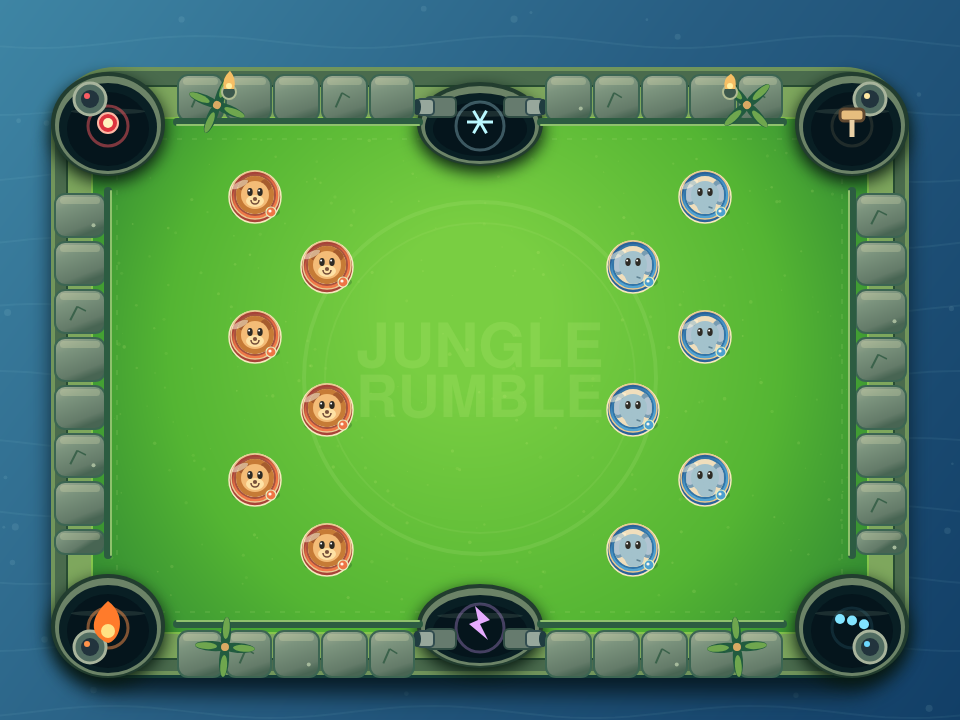
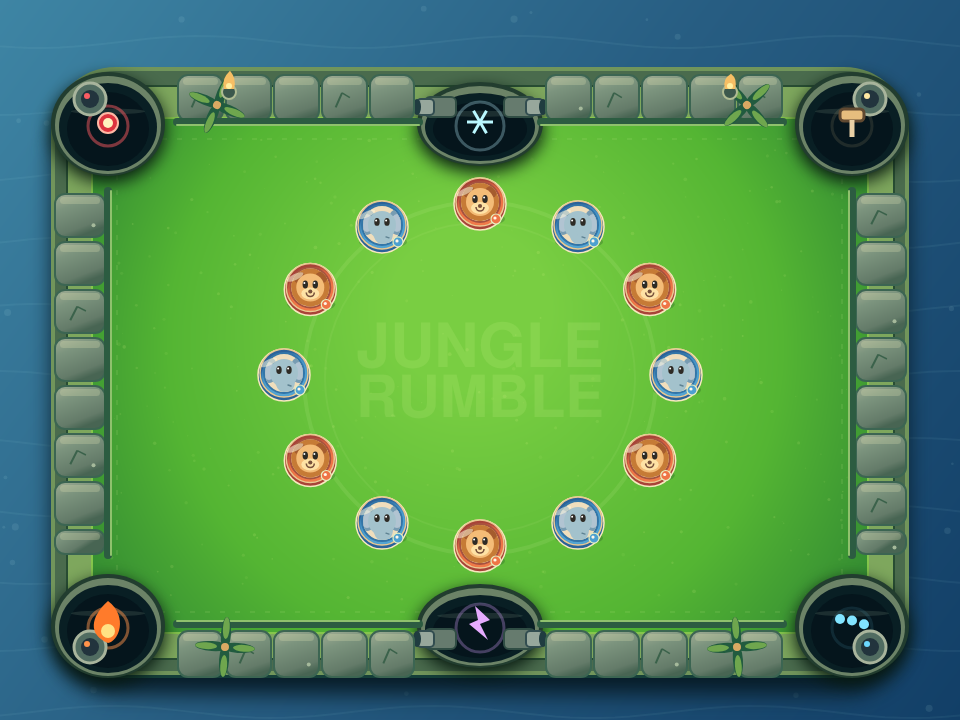
push v2.1

diff --git a/public/app.js b/public/app.js
@@ -4,6 +4,8 @@
   const canvas = $('gameCanvas');
   const ctx = canvas.getContext('2d');
   const W = 960, H = 720;
+  const DEFAULT_MAX_POWER = 1020, FULL_POWER_DRAG = 130;
+  const shotStrength = distance => Math.min(1, Math.max(0, distance / FULL_POWER_DRAG));
   const F = { l:108, r:852, t:122, b:624 };
   const ICONS = { lion:'🦁', elephant:'🐘', monkey:'🐒', hippo:'🦛' };
   // Four corner pockets plus centre pockets on the two long rails.
@@ -21,10 +23,12 @@
   const positions=new Map(), effects=[], seenEvents=new Set();
   let toastTimeout=null, sceneMode='preview';
   const demo = {game:{pieces:[],phase:'playing',turn:0,remaining:[6,6],shots:0,events:[]},players:[{name:'Sunny',species:'lion'},{name:'Moon',species:'hippo'}],phase:'playing'};
-  const Y=[195,265,335,408,478,548];
-  for(let i=0;i<6;i++){
-    demo.game.pieces.push({id:'p0-'+i,owner:0,x:i%2?327:255,y:Y[i],vx:0,vy:0,alive:true});
-    demo.game.pieces.push({id:'p1-'+i,owner:1,x:i%2?633:705,y:Y[i],vx:0,vy:0,alive:true});
+  // The lobby preview uses the same circular layout as all game modes.
+  for(let i=0;i<12;i++){
+    const angle=i*Math.PI/6-Math.PI/2;
+    const owner=i%2;
+    demo.game.pieces.push({id:`p${owner}-${Math.floor(i/2)}`,owner,
+      x:480+Math.cos(angle)*196,y:373+Math.sin(angle)*171,vx:0,vy:0,alive:true});
   }
   let roomState=demo;
 
@@ -127,7 +131,7 @@
     $('turnLabel').textContent=g.phase==='finished'?'SPIEL BEENDET':data.phase==='waiting'?'WARTE AUF DEINEN FREUND':ourTurn?'DU BIST AM ZUG':data.bot?'COMPUTER IST DRAN':'GEGNER IST AM ZUG';
     $('turnIndicator').style.color=g.turn===0?'#f3a864':'#7acbee';
     $('rematch').classList.toggle('hidden',g.phase!=='finished');
-    $('instruction').textContent=data.phase==='waiting'?'Sobald dein Freund beigetreten ist, kann es losgehen.':g.phase==='finished'?'Lust auf eine Revanche? Die Startaufstellung aendert sich bei jeder Runde.':g.phase==='moving'?'Warte, bis alle Tierkugeln ausgerollt sind.':ourTurn?'Wähle eine eigene Kugel, ziehe den Queue zurück und lasse los. Über die Zielhilfe erkennst du den Trefferpunkt.':data.bot?'Der Computer berechnet seinen nächsten Stoß …':'Schau zu, wie dein Gegner seinen Stoß vorbereitet.';
+    $('instruction').textContent=data.phase==='waiting'?'Sobald dein Freund beigetreten ist, kann es losgehen.':g.phase==='finished'?'Lust auf eine Revanche? Auch die nächste Runde startet im Kreis.':g.phase==='moving'?'Warte, bis alle Tierkugeln ausgerollt sind.':ourTurn?'Wähle eine eigene Kugel, ziehe den Queue zurück und lasse los. Über die Zielhilfe erkennst du den Trefferpunkt.':data.bot?'Der Computer berechnet seinen nächsten Stoß …':'Schau zu, wie dein Gegner seinen Stoß vorbereitet.';
   }
   function updateOverlay() {
     const overlay=$('arenaOverlay');
@@ -532,7 +536,7 @@
     if(!drag||!d)return;
     const dx=drag.startX-drag.x,dy=drag.startY-drag.y,mag=Math.hypot(dx,dy);
     if(mag<3)return;
-    const power=Math.min(130,mag),nx=dx/mag,ny=dy/mag;
+    const strength=shotStrength(mag),power=FULL_POWER_DRAG*strength,nx=dx/mag,ny=dy/mag;
     ctx.save();ctx.translate(d.x,d.y);
     // Preview the first ball-to-ball impact instead of a generic arrow.
     const game=roomState.game;
@@ -569,8 +573,8 @@
     rr(meterX,meterY,166,15,7,'#0b201cdd','#f1daa077',1);
     const gradient=ctx.createLinearGradient(meterX,0,meterX+163,0);
     gradient.addColorStop(0,'#8fe778');gradient.addColorStop(.62,'#f2d366');gradient.addColorStop(1,'#e85c37');
-    rr(meterX+3,meterY+3,Math.max(1,160*power/130),9,4,gradient);
-    text(`STOßKRAFT ${Math.round(power/130*100)}%`,meterX+83,meterY-7,'bold 11px Trebuchet MS','#f6f2cf');
+    rr(meterX+3,meterY+3,Math.max(1,160*strength),9,4,gradient);
+    text(`STOßKRAFT ${Math.round(strength*100)}%`,meterX+83,meterY-7,'bold 11px Trebuchet MS','#f6f2cf');
   }
   let lastDrawTime=0;
   function draw(t){
@@ -616,7 +620,10 @@
     const dx=sel.startX-pointNow.x,dy=sel.startY-pointNow.y;
     const mag=Math.hypot(dx,dy);
     if(mag<8){showToast('Ziehe das Tier nach hinten, dann loslassen!');return;}
-    const power=Math.min(1050,mag*7.9),vx=dx/mag*power,vy=dy/mag*power;
+    // The authoritative server exposes its power ceiling with the game state.
+    // 100% on the UI maps to that precise value, even if it changes later.
+    const maxPower=current.game.maxPower??DEFAULT_MAX_POWER;
+    const power=maxPower*shotStrength(mag),vx=dx/mag*power,vy=dy/mag*power;
     try {await send('POST',`/api/rooms/${session.code}/shoot`,{token:session.token,pieceId:sel.id,vx,vy});}
     catch(e){showToast(e.message);}
   });

diff --git a/test/ui.test.js b/test/ui.test.js
@@ -1,0 +1,75 @@
+'use strict';
+const {test}=require('node:test');
+const assert=require('node:assert/strict');
+const fs=require('node:fs');
+const vm=require('node:vm');
+const path=require('node:path');
+const {initGame,publicGame,MAX_POWER}=require('../game');
+
+function mountUI(){
+  class MockElement {
+    constructor(id){
+      this.id=id;this.handlers={};this.style={};this.dataset={};this.value=id==='playerName'?'Test':'normal';
+      this.textContent='';this.classes=new Set();
+      this.classList={add:k=>this.classes.add(k),remove:k=>this.classes.delete(k),toggle:(k,on)=>{
+        const enabled=on===undefined?!this.classes.has(k):on;
+        if(enabled)this.classes.add(k);else this.classes.delete(k);
+        return enabled;
+      }};
+    }
+    addEventListener(type,fn){this.handlers[type]=fn;}
+    setAttribute(){}
+    setPointerCapture(){}
+    getBoundingClientRect(){return {left:0,top:0,width:960,height:720};}
+  }
+  const elements=new Map();
+  const element=id=>{
+    if(!elements.has(id))elements.set(id,new MockElement(id));
+    return elements.get(id);
+  };
+  const requests=[];
+  const fakeFetch=async(url,opts={})=>{
+    const payload=opts.body?JSON.parse(opts.body):null;
+    requests.push({url,method:opts.method,body:payload});
+    if(url==='/api/rooms'){
+      return {ok:true,json:async()=>({
+        code:'ABC234',token:'tkn',seat:0,local:true,bot:false,seq:0,phase:'playing',
+        players:[{name:'A',species:'lion'},{name:'B',species:'hippo'}],game:publicGame(initGame())
+      })};
+    }
+    if(String(url).endsWith('/shoot'))return {ok:true,json:async()=>({ok:true,seq:1})};
+    throw new Error(`Unexpected fetch: ${url}`);
+  };
+  const ctx={
+    document:{getElementById:element,querySelectorAll:()=>[],hidden:false},
+    window:{},location:{origin:'http://localhost',search:''},
+    history:{replaceState(){}},
+    localStorage:{setItem(){},getItem(){return null;},removeItem(){}},
+    fetch:fakeFetch,requestAnimationFrame(){},
+    setTimeout(){return 1;},clearTimeout(){},setInterval(){return 1;},clearInterval(){},
+    URLSearchParams,console
+  };
+  element('gameCanvas').getContext=()=>({});
+  const code=fs.readFileSync(path.join(__dirname,'../public/app.js'),'utf8');
+  vm.runInNewContext(code,ctx,{filename:'public/app.js'});
+  return {element,requests};
+}
+
+test('browser sends 100%-strength shots within the server limit even when pulled beyond the meter',async()=>{
+  const {element,requests}=mountUI();
+  await element('localRoom').handlers.click();
+  const canvas=element('gameCanvas');
+  const pull=async dragDistance=>{
+    canvas.handlers.pointerdown({clientX:480,clientY:202,pointerId:1,preventDefault(){}});
+    canvas.handlers.pointermove({clientX:480,clientY:202-dragDistance,preventDefault(){}});
+    await canvas.handlers.pointerup({clientX:480,clientY:202-dragDistance,preventDefault(){}});
+    return requests.filter(x=>String(x.url).endsWith('/shoot')).at(-1).body;
+  };
+  const half=await pull(65);
+  assert.ok(Math.abs(Math.hypot(half.vx,half.vy)-MAX_POWER/2)<1e-4);
+  const full=await pull(130);
+  assert.ok(Math.abs(Math.hypot(full.vx,full.vy)-MAX_POWER)<1e-4);
+  const beyond=await pull(400);
+  assert.ok(Math.abs(Math.hypot(beyond.vx,beyond.vy)-MAX_POWER)<1e-4);
+  assert.ok(Math.hypot(beyond.vx,beyond.vy)<=MAX_POWER+1e-9);
+});

diff --git a/game.js b/game.js
@@ -22,24 +22,21 @@ const POCKETS = Object.freeze([
   {id:'br', side:'corner', x:FIELD.right, y:FIELD.bottom, effect:'water', capture:43, mouth:69}
 ]);
 
+// The original-inspired twelve-ball ring is shared by solo, local and
+// online play. Rematches keep the same fair circular setup.
+const START_RING = Object.freeze({cx:480, cy:373, rx:196, ry:171});
 function newPieces(layout=0) {
   const pieces=[];
-  function add(owner,x,y) {
-    const count=pieces.filter(p=>p.owner===owner).length;
-    pieces.push({id:`p${owner}-${count}`,owner,x,y,vx:0,vy:0,alive:true,r:BALL_R});
-  }
-  if(layout%3===0){
-    const ys=[195,265,335,408,478,548];
-    ys.forEach((y,i)=>{add(0, i%2?327:255, y);add(1, i%2?633:705, y);});
-  }else if(layout%3===1){
-    for(let i=0;i<12;i++){
-      const a=(Math.PI*2*i/12)-Math.PI/2;
-      add(i%2,480+Math.cos(a)*196,373+Math.sin(a)*171);
-    }
-  }else{
-    const coords=[[250,245],[310,205],[324,315],[250,431],[310,505],[377,372]];
-    coords.forEach(([x,y])=>add(0,x,y));
-    coords.forEach(([x,y])=>add(1,960-x,746-y));
+  for(let i=0;i<12;i++){
+    const owner=i%2;
+    const index=Math.floor(i/2);
+    const angle=i*Math.PI/6-Math.PI/2;
+    pieces.push({
+      id:`p${owner}-${index}`,owner,
+      x:START_RING.cx+Math.cos(angle)*START_RING.rx,
+      y:START_RING.cy+Math.sin(angle)*START_RING.ry,
+      vx:0,vy:0,alive:true,r:BALL_R
+    });
   }
   return pieces;
 }
@@ -198,7 +195,7 @@ function settle(game){
 }
 function publicGame(game){
   return {pieces:game.pieces.map(({id,owner,x,y,vx,vy,alive})=>({id,owner,x:Math.round(x*10)/10,y:Math.round(y*10)/10,vx:Math.round(vx),vy:Math.round(vy),alive})),
-    turn:game.turn,phase:game.phase,winner:game.winner,shots:game.shots,lastAction:game.lastAction,
+    turn:game.turn,phase:game.phase,winner:game.winner,shots:game.shots,maxPower:MAX_POWER,lastAction:game.lastAction,
     layout:game.layout,events:game.events.slice(-30),remaining:[0,1].map(o=>game.pieces.filter(p=>p.owner===o&&p.alive).length)};
 }
-module.exports={WIDTH,HEIGHT,FIELD,BALL_R,MAX_POWER,POCKETS,FRICTION,initGame,newPieces,validShot,shoot,advance,settle,publicGame,pocketAt,nearestPocket};
+module.exports={WIDTH,HEIGHT,FIELD,BALL_R,MAX_POWER,START_RING,POCKETS,FRICTION,initGame,newPieces,validShot,shoot,advance,settle,publicGame,pocketAt,nearestPocket};

diff --git a/test/server.test.js b/test/server.test.js
@@ -1,7 +1,7 @@
 'use strict';
 const {test}=require('node:test');
 const assert=require('node:assert/strict');
-const {createServer}=require('../server');
+const {createServer,rooms}=require('../server');
 
 function serverHarness() {
   const server=createServer();
@@ -108,4 +108,40 @@ test('the CPU automatically responds after a player shot finishes', {timeout:120
     }
     assert.ok(final.game.shots>=2,'the bot must shoot automatically without a second browser');
   } finally{await s.close();}
+});
+
+test('all game modes start in the same ring and accept full-power shots',async()=>{
+  const s=await serverHarness();
+  try{
+    const common=await s.call('POST','/api/rooms',{name:'Local',local:true});
+    const solo=await s.call('POST','/api/rooms',{name:'Human',vsBot:true,difficulty:'easy'});
+    const online=await s.call('POST','/api/rooms',{name:'Host'});
+    const join=await s.call('POST',`/api/rooms/${online.data.code}/join`,{name:'Guest'});
+    assert.equal(join.status,200);
+    const starts=[common.data.game.pieces,solo.data.game.pieces,online.data.game.pieces];
+    for(const pieces of starts){
+      assert.deepEqual(pieces.map(p=>[p.id,p.x,p.y]),starts[0].map(p=>[p.id,p.x,p.y]));
+    }
+    for(const created of [common,solo,online]){
+      const response=await s.call('POST',`/api/rooms/${created.data.code}/shoot`,
+        {token:created.data.token,pieceId:'p0-0',vx:0,vy:1020});
+      assert.equal(response.status,200,`full power must work in ${created.data.code}: ${response.data.error}`);
+    }
+  }finally{await s.close();}
+});
+
+
+test('rematches keep the circular formation',async()=>{
+  const s=await serverHarness();
+  try {
+    const created=await s.call('POST','/api/rooms',{name:'Two friends',local:true});
+    const {code,token}=created.data;
+    rooms.get(code).game.phase='finished';
+    const rematch=await s.call('POST',`/api/rooms/${code}/rematch`,{token});
+    assert.equal(rematch.status,200);
+    const replay=await s.call('GET',`/api/rooms/${code}`);
+    assert.equal(replay.data.game.phase,'playing');
+    assert.deepEqual(replay.data.game.pieces.map(p=>[p.id,p.x,p.y]),
+      created.data.game.pieces.map(p=>[p.id,p.x,p.y]));
+  }finally{await s.close();}
 });

diff --git a/test/game.test.js b/test/game.test.js
@@ -102,3 +102,28 @@ test('billiard energy transfers from the shooter to the target',()=>{
   assert.ok(b.vx>300,`target picks up the speed, got ${b.vx}`);
   assert.ok(a.vx<120,`striker slows down on impact, got ${a.vx}`);
 });
+
+test('all rounds start with the same alternating twelve-animal ring',()=>{
+  const initial=newPieces(0);
+  for(const layout of [1,2,3,9,27]){
+    const pieces=newPieces(layout);
+    assert.deepEqual(pieces.map(p=>[p.id,p.owner,p.x,p.y]),initial.map(p=>[p.id,p.owner,p.x,p.y]));
+  }
+  const cx=480,cy=373,rx=196,ry=171;
+  for(let i=0;i<initial.length;i++){
+    const p=initial[i];
+    const ellipse=(p.x-cx)**2/rx**2+(p.y-cy)**2/ry**2;
+    assert.ok(Math.abs(ellipse-1)<1e-10,`piece ${p.id} must be on the ring`);
+    assert.equal(p.owner,i%2,'the teams must alternate around the ring');
+    assert.ok(p.x>FIELD.left+BALL_R&&p.x<FIELD.right-BALL_R);
+    assert.ok(p.y>FIELD.top+BALL_R&&p.y<FIELD.bottom-BALL_R);
+  }
+});
+
+test('exactly 100 percent power is a legal shot',()=>{
+  const g=initGame();
+  const {MAX_POWER}=require('../game');
+  assert.equal(validShot(g,0,'p0-0',MAX_POWER,0),null);
+  assert.equal(shoot(g,0,'p0-0',MAX_POWER,0),null);
+  assert.equal(Math.hypot(g.pieces[0].vx,g.pieces[0].vy),MAX_POWER);
+});

diff --git a/README.md b/README.md
@@ -19,13 +19,13 @@ Zoopaloola Revival ist Tier-Billard ohne weiße Kugel: Sechs deiner Kugeln stehe
 - 🎮 **Lokal zu zweit:** beide spielen abwechselnd an einem Gerät.
 - 🎱 **Billard-Physik:** spürbare Bande, präzise Kollisionen, Queue, Zielhilfe und Stoßkraft.
 - ⚡ **Sechs Spezialtaschen:** Jede Falle verabschiedet die Kugeln mit einer eigenen Animation und Soundeffekten.
-- 🔁 **Revanche:** mit wechselnder Startaufstellung.
+- 🔁 **Kreisaufstellung:** zwölf Tierkugeln stehen in jedem Modus und bei jeder Revanche ringförmig bereit.
 
 ## So spielst du
 
 1. Wähle **dein Tier** (Löwe, Elefant, Affe oder Nilpferd) und einen Spielmodus.
 2. **Klicke oder tippe auf eine eigene Kugel.** Ziehe den Queue in die entgegengesetzte Richtung deines gewünschten Stoßes.
-3. Die **Zielhilfe** zeigt die Stoßrichtung und den ersten möglichen Kugeltreffer; der Balken zeigt die Kraft an.
+3. Die **Zielhilfe** zeigt die Stoßrichtung und den ersten möglichen Kugeltreffer; der Balken zeigt die Kraft an. **100 % Stoßkraft** ist die maximal mögliche Schussstärke.
 4. **Loslassen:** Deine Kugel rollt, prallt von Banden ab und stößt andere Kugeln an.
 5. **Versenke alle sechs gegnerischen Kugeln**, ohne selbst alle zu verlieren. Nach jedem Stoß wechselt der Spieler – auch bei einem Treffer.
 
